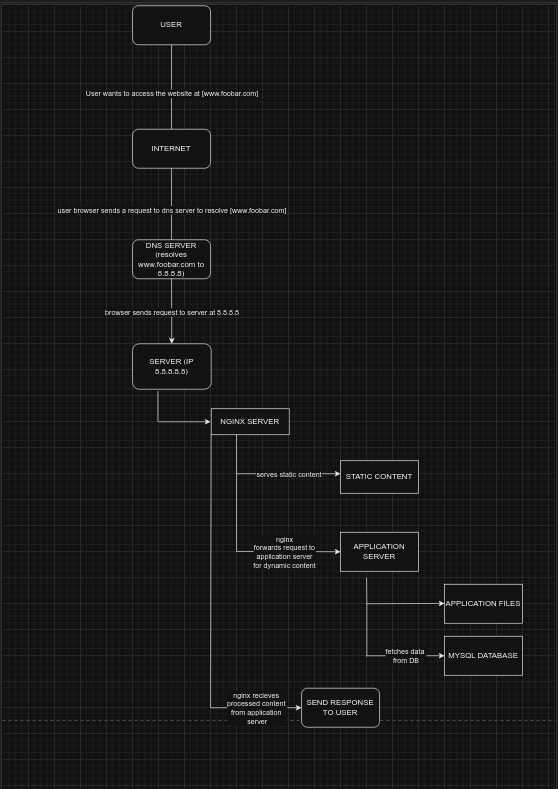
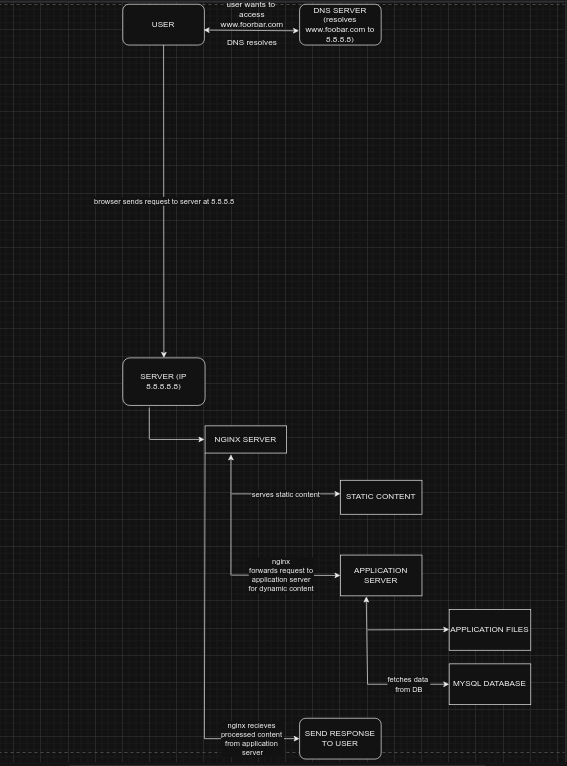
task 3

Changed region(s): [[0.1219, 0.0, 0.9444, 1.0], [0.2437, 0.5405, 0.2742, 0.5705], [0.1828, 0.0901, 0.2133, 0.1201]]

diff --git a/0x09-web_infrastructure_design/README.md b/0x09-web_infrastructure_design/README.md
@@ -47,6 +47,10 @@ In the architecture below, there are 3 firewalls. One before accessing the load 
 There is also a monitering client to keep a log of the system to capture any errors and keep track of the systems health
 ![example_image](images/2-secured_and_monitored_web_infrastructure.jpg)
 
+# 3-scale_up
+- A scaled up version of task 2
+![example_image] (images/3-scale_up)
+
 ## the images were drawn on draw.io
 ## Authors
 
